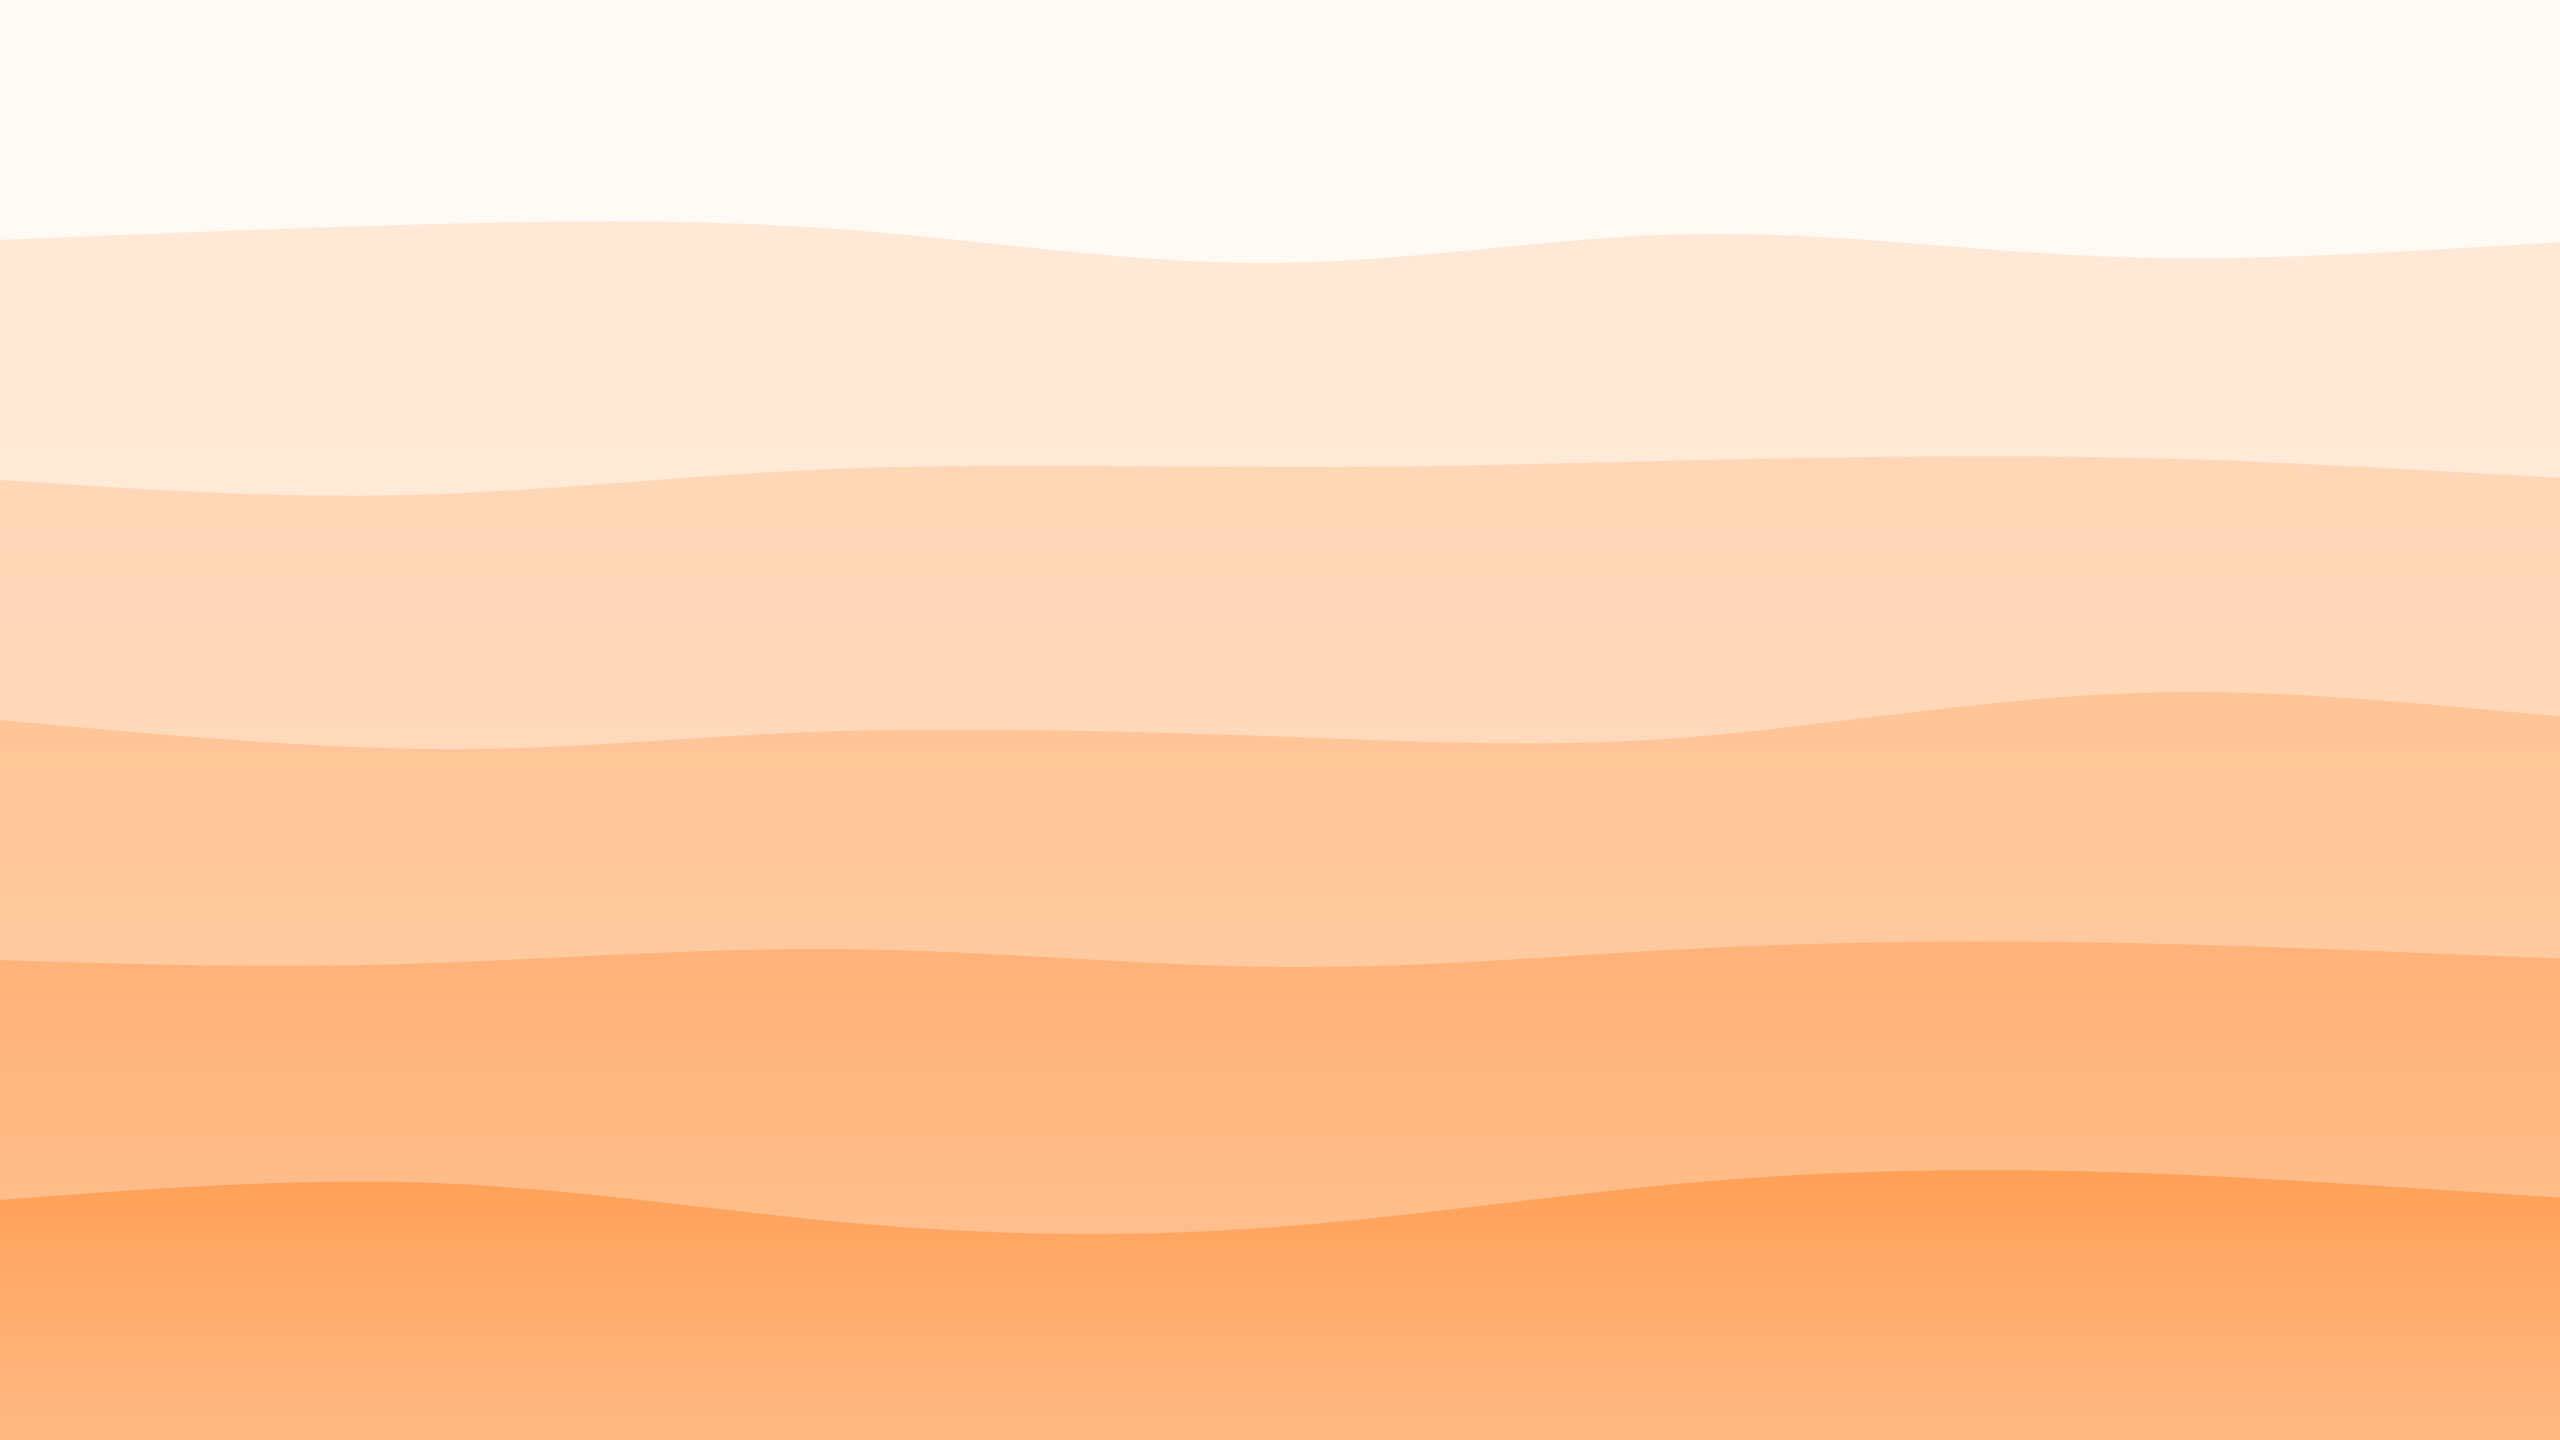
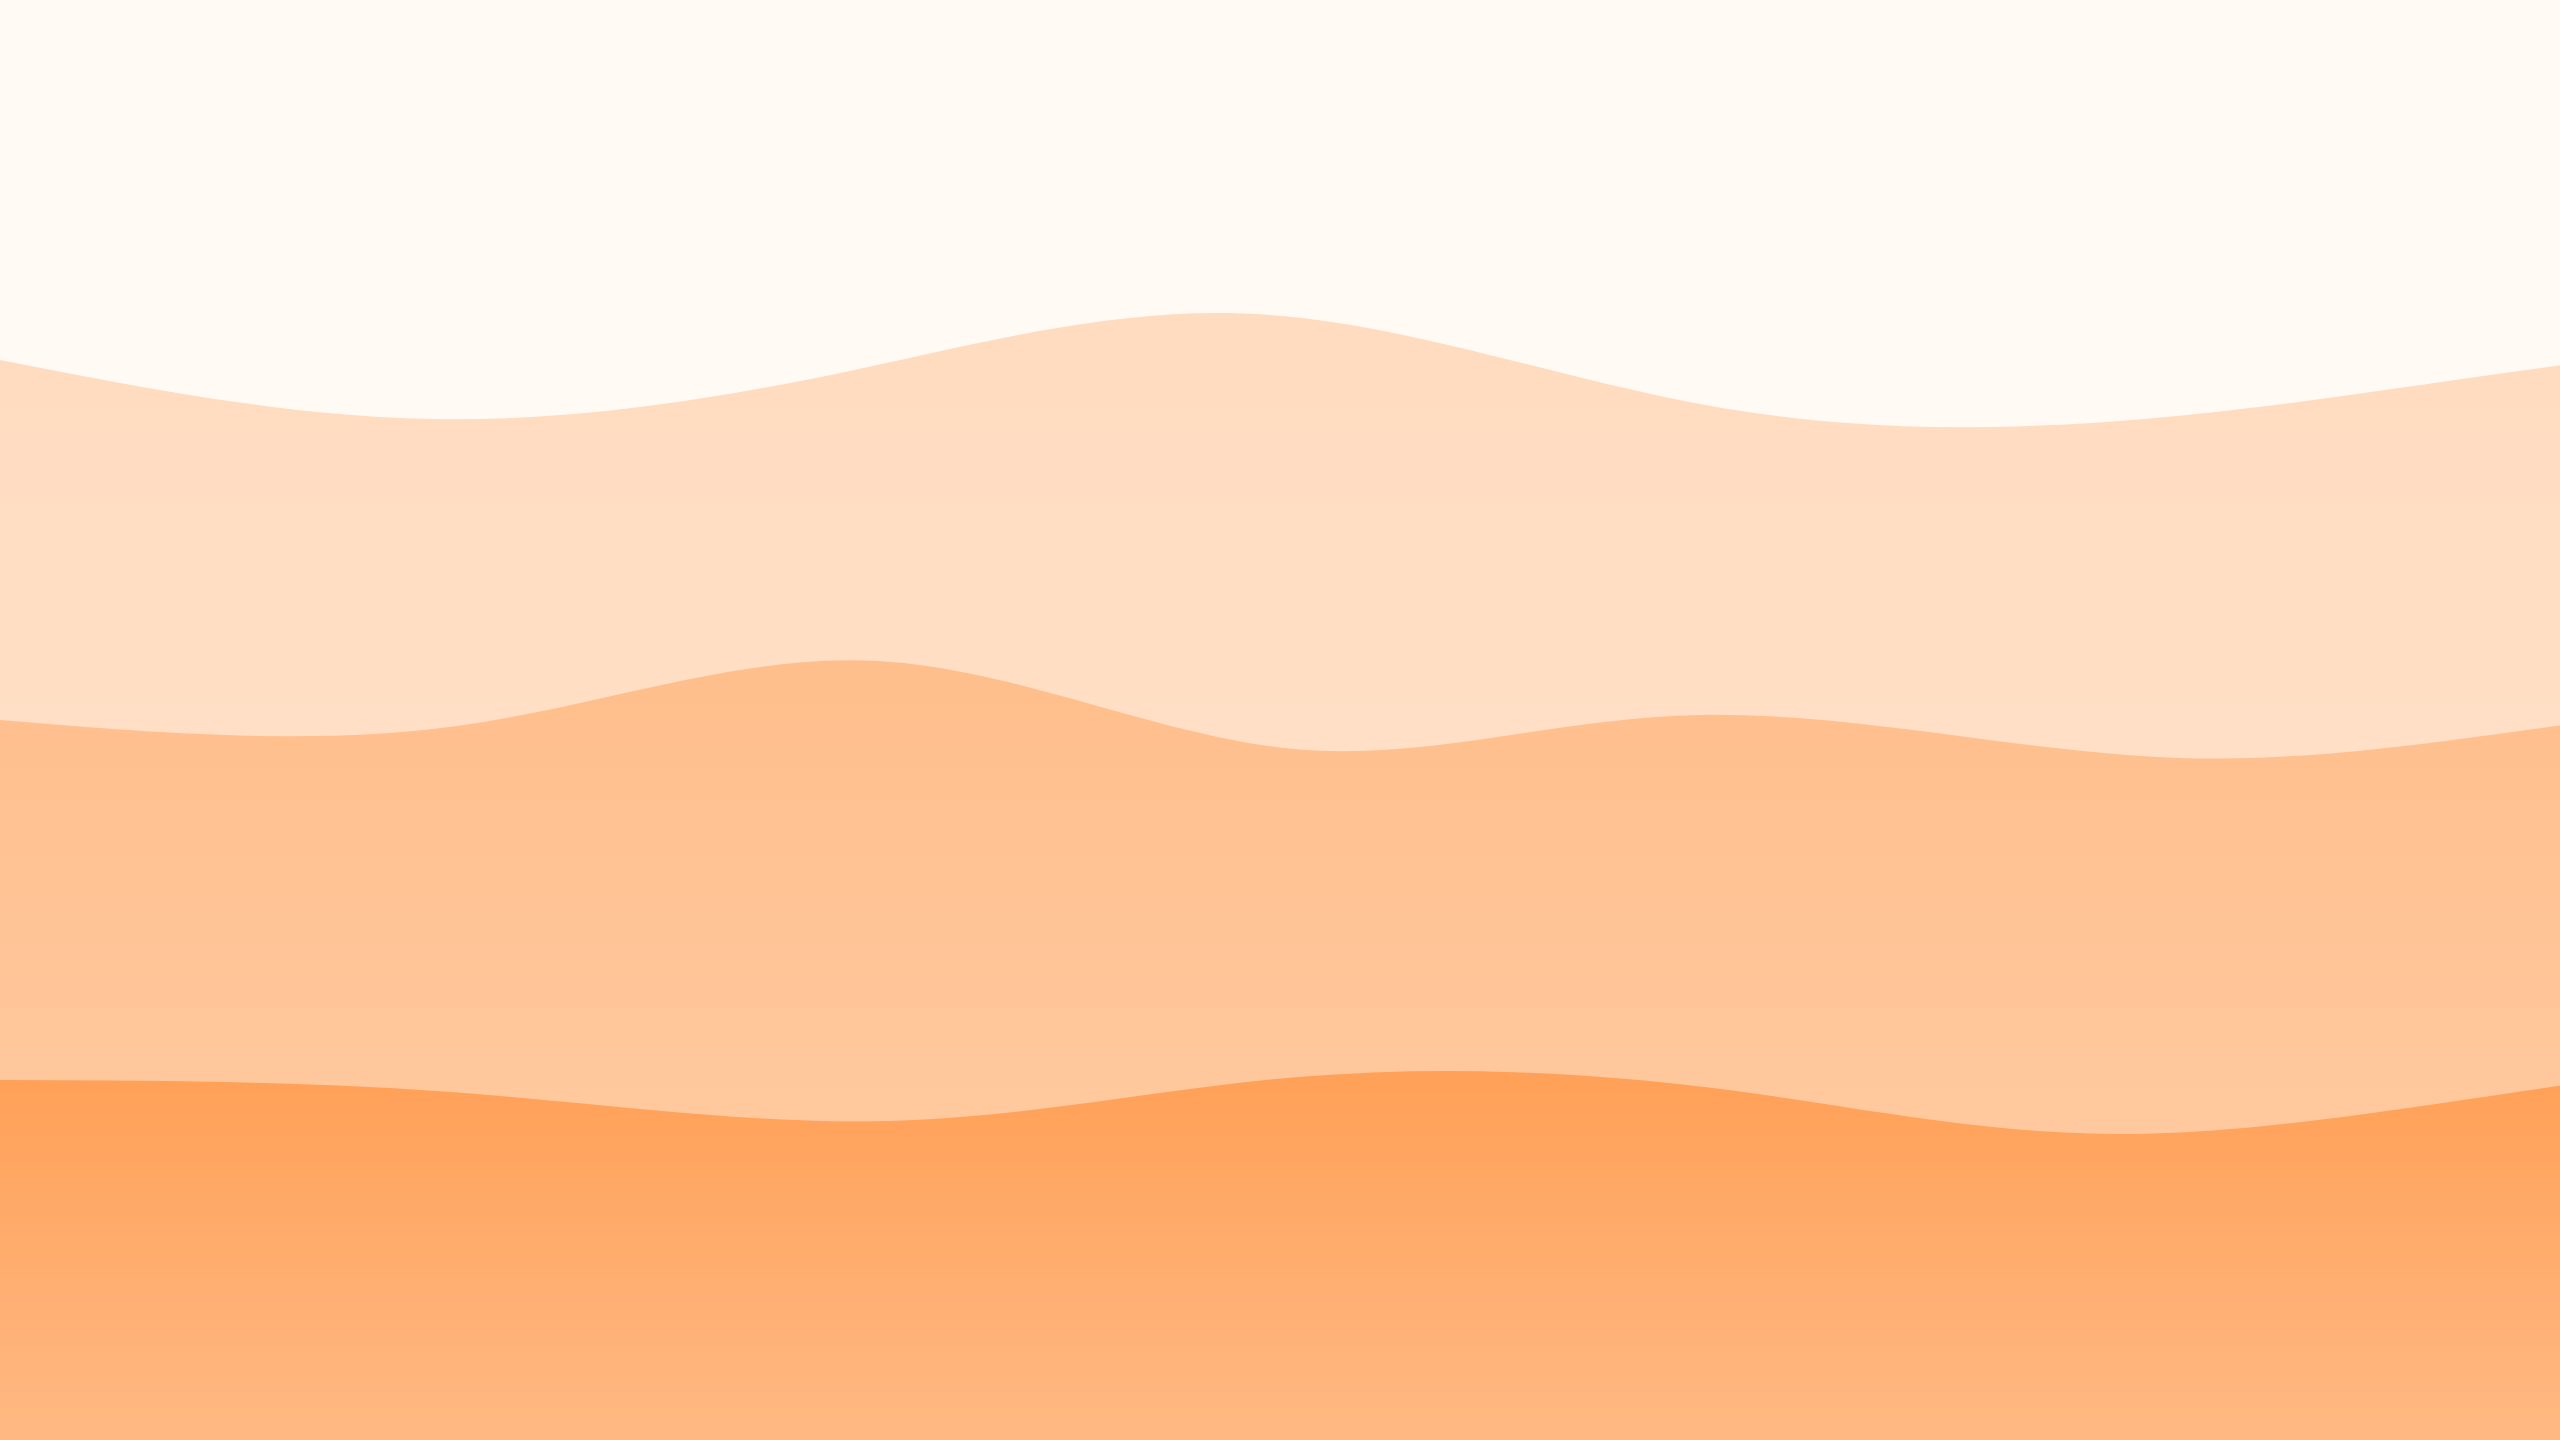
Added terms & conditions and contact us pages

diff --git a/GaaS_Station/wwwroot/css/site.css b/GaaS_Station/wwwroot/css/site.css
@@ -105,7 +105,7 @@ h3, th {
     background-color: rgba(255, 255, 255, 0.2);
     border-top: 1.5px solid var(--white);
     border-bottom: 0.5px solid var(--white);
-    border-radius: 24px;
+    border-radius: 30px;
     box-shadow: 0 1px 4px 0 var(--shadowColour);
     backdrop-filter: blur(20px);
 }

diff --git a/GaaS_Station/Controllers/HomeController.cs b/GaaS_Station/Controllers/HomeController.cs
@@ -16,6 +16,16 @@ namespace GaaS_Station.Controllers
             return View();
         }
 
+        public IActionResult TermsConditions()
+        {
+            return View();
+        }
+
+        public IActionResult Contact()
+        {
+            return View();
+        }
+
         [ResponseCache(Duration = 0, Location = ResponseCacheLocation.None, NoStore = true)]
         public IActionResult Error()
         {
